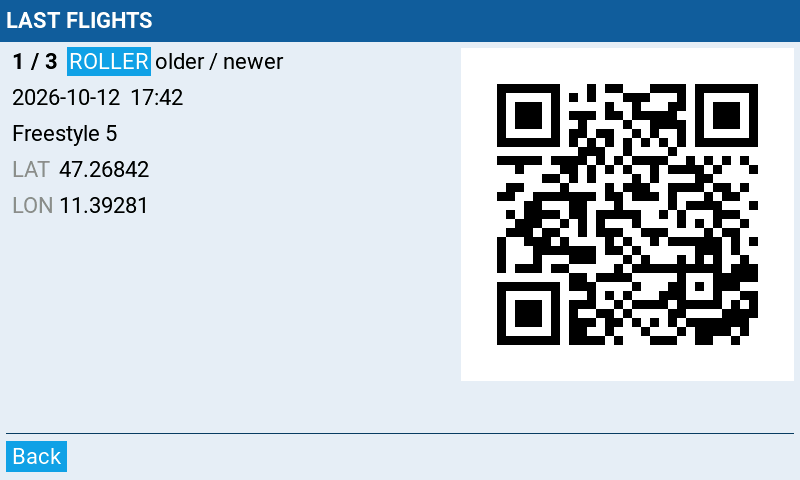
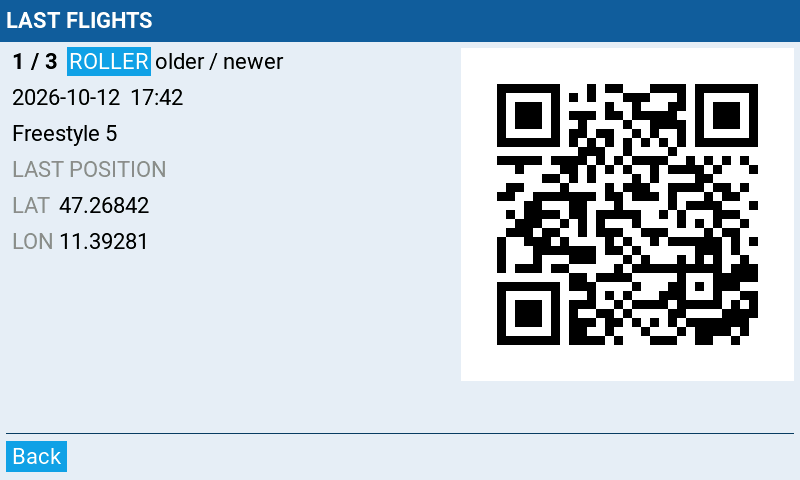
Flight Bag > Last flights: heading LAST POSITION above LAT and LON; guide explains landing spot versus last known spot, screenshot updated

Changed region(s): [[0.0, 0.4062, 0.1875, 0.5312], [0.0312, 0.3125, 0.2188, 0.375]]

diff --git a/docs/flightbag.md b/docs/flightbag.md
@@ -319,14 +319,16 @@ widget) runs with a linked model, then stop the search.
 
 ## Last flights
 
-GPS Homer only. Where the model was when the telemetry ended, for the last three flights.
+GPS Homer only. The last GPS position the radio received before the telemetry ended, for the last three flights.
+After a normal landing this is usually the landing spot. After a crash or a lost link it is only the last known
+spot, so the model can be further away.
 
 <p align="center">
   <img src="img/flightbag-flights.png" width="480" alt="Last flights page">
 </p>
 
-Each entry shows date, time, model name and coordinates, plus a **QR code**: scan it with a phone and the map app
-opens on that spot. The wheel steps through the flights (older / newer). **Clear flights** in the GPS Homer popup
+Each entry shows the date and time the telemetry ended, the model name and the coordinates under `LAST POSITION`,
+plus a **QR code**: scan it with a phone and the map app opens on that spot. The wheel steps through the flights (older / newer). **Clear flights** in the GPS Homer popup
 empties the list.
 
 ---
